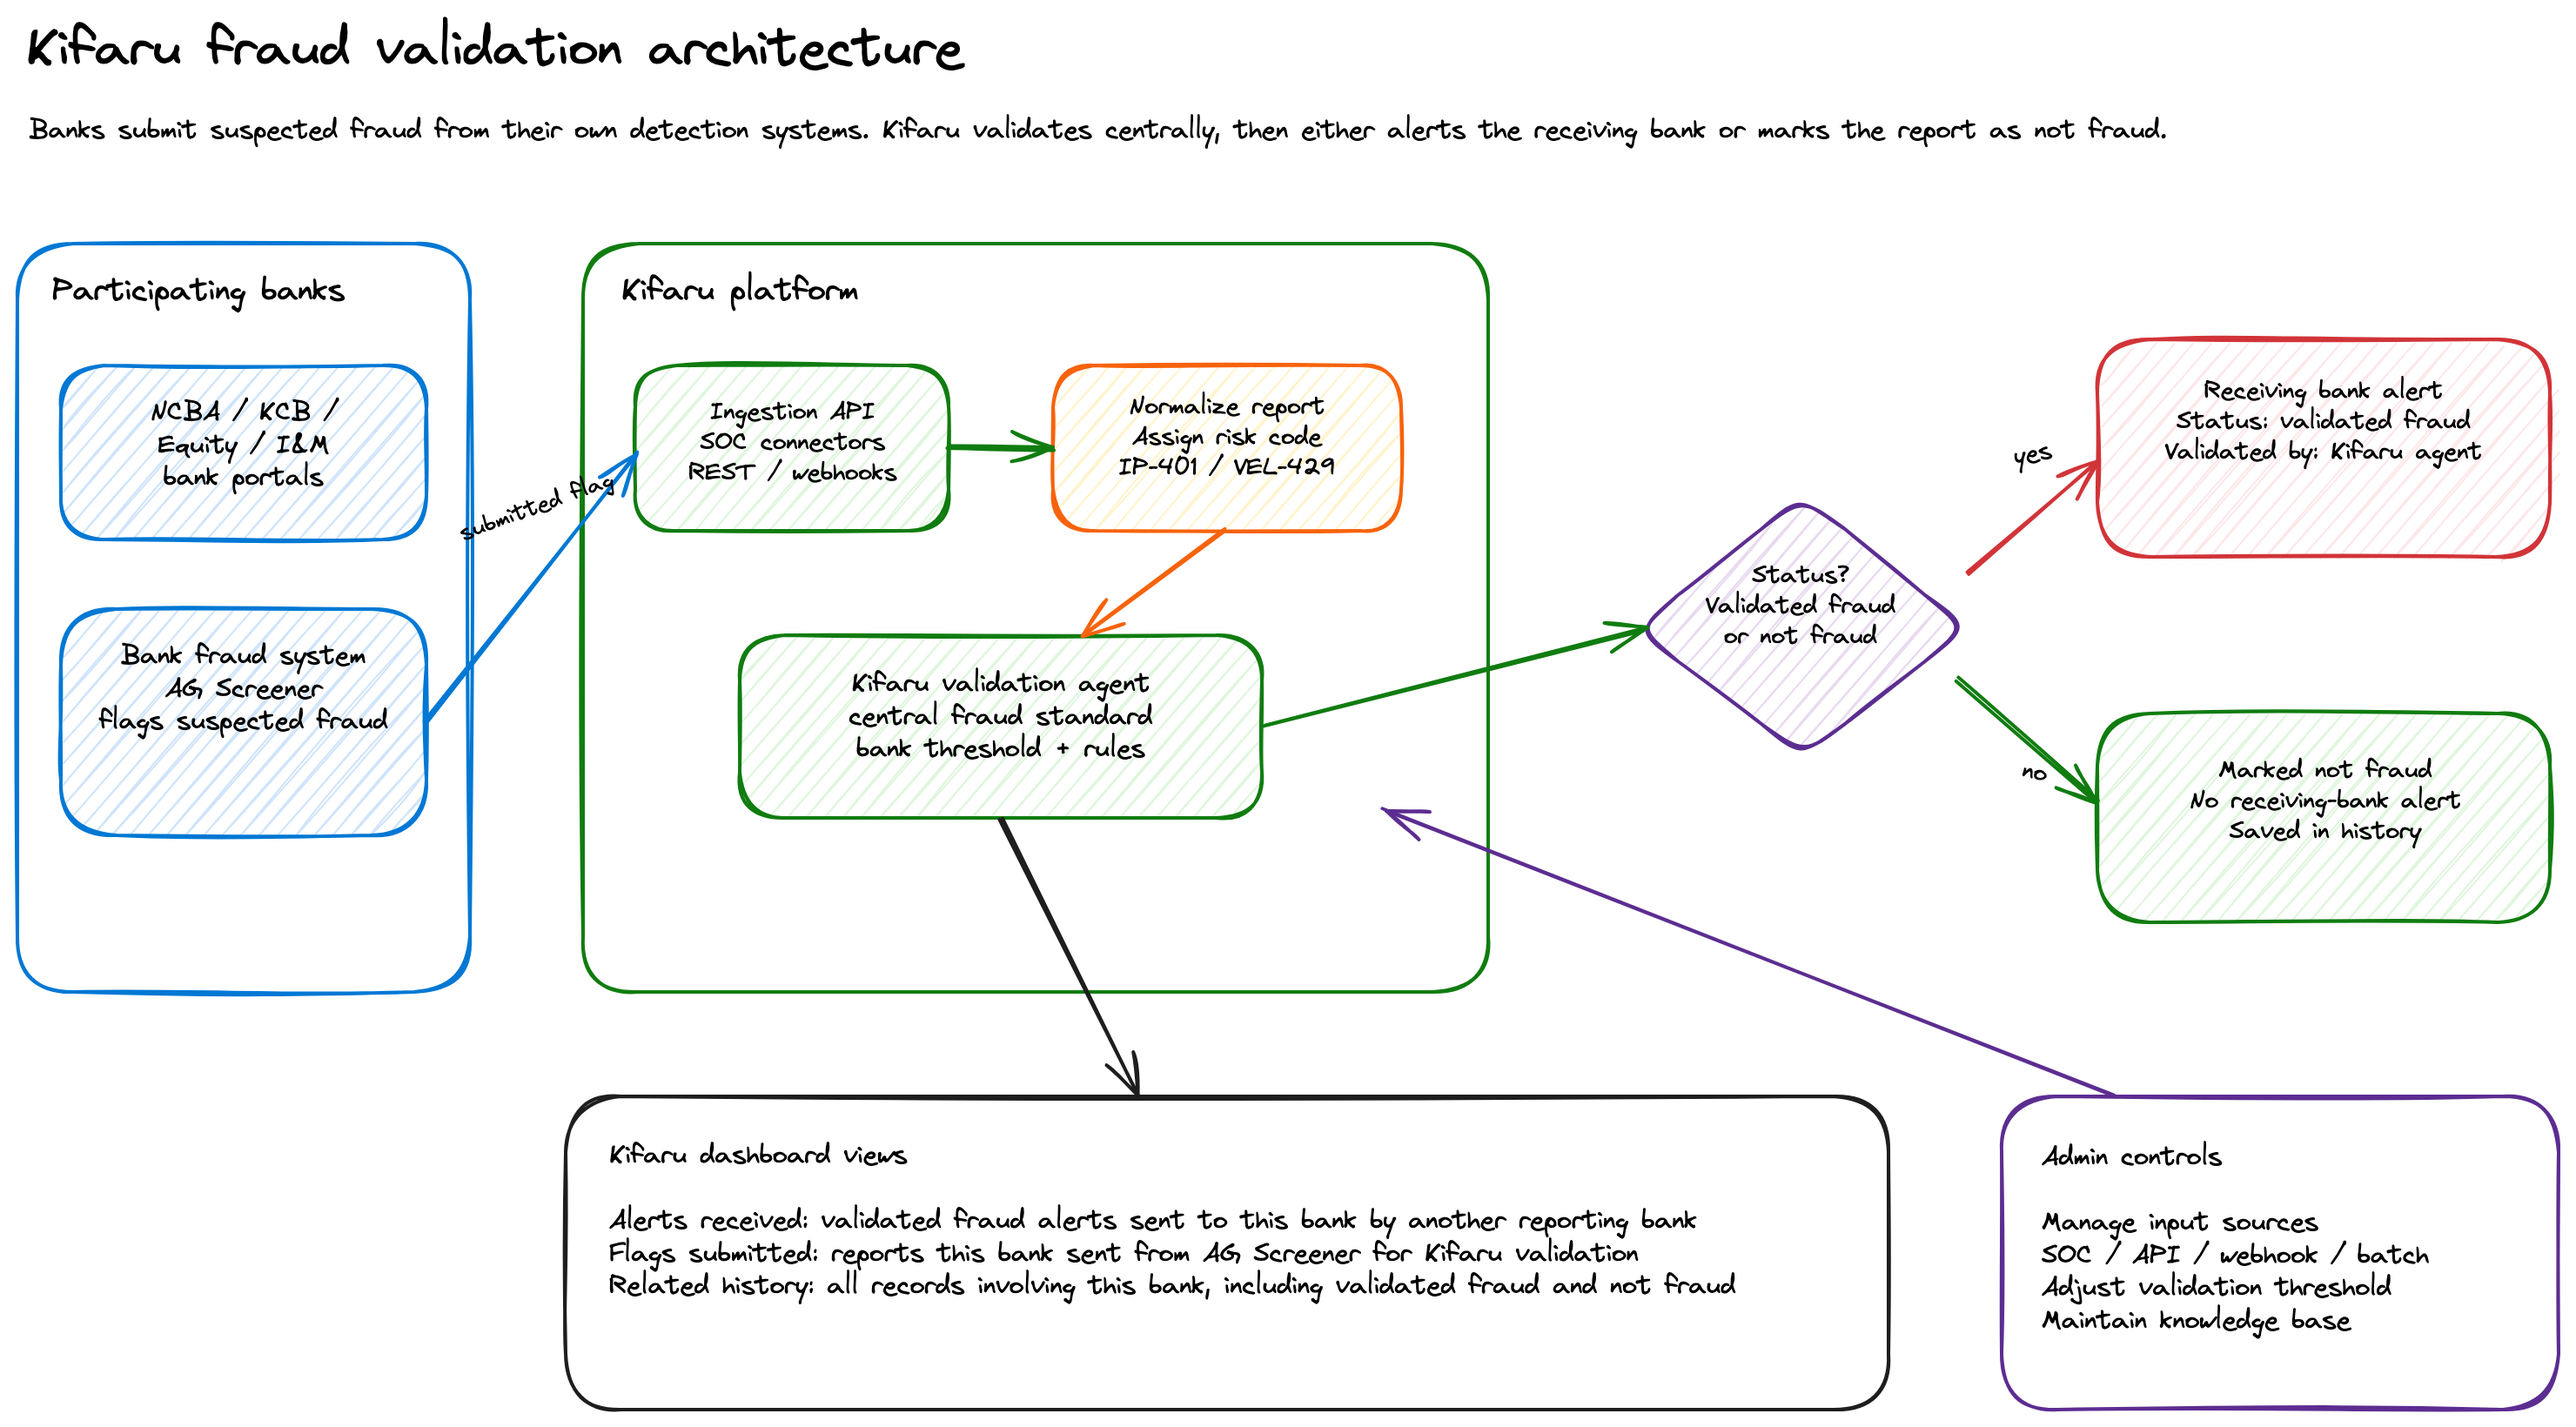
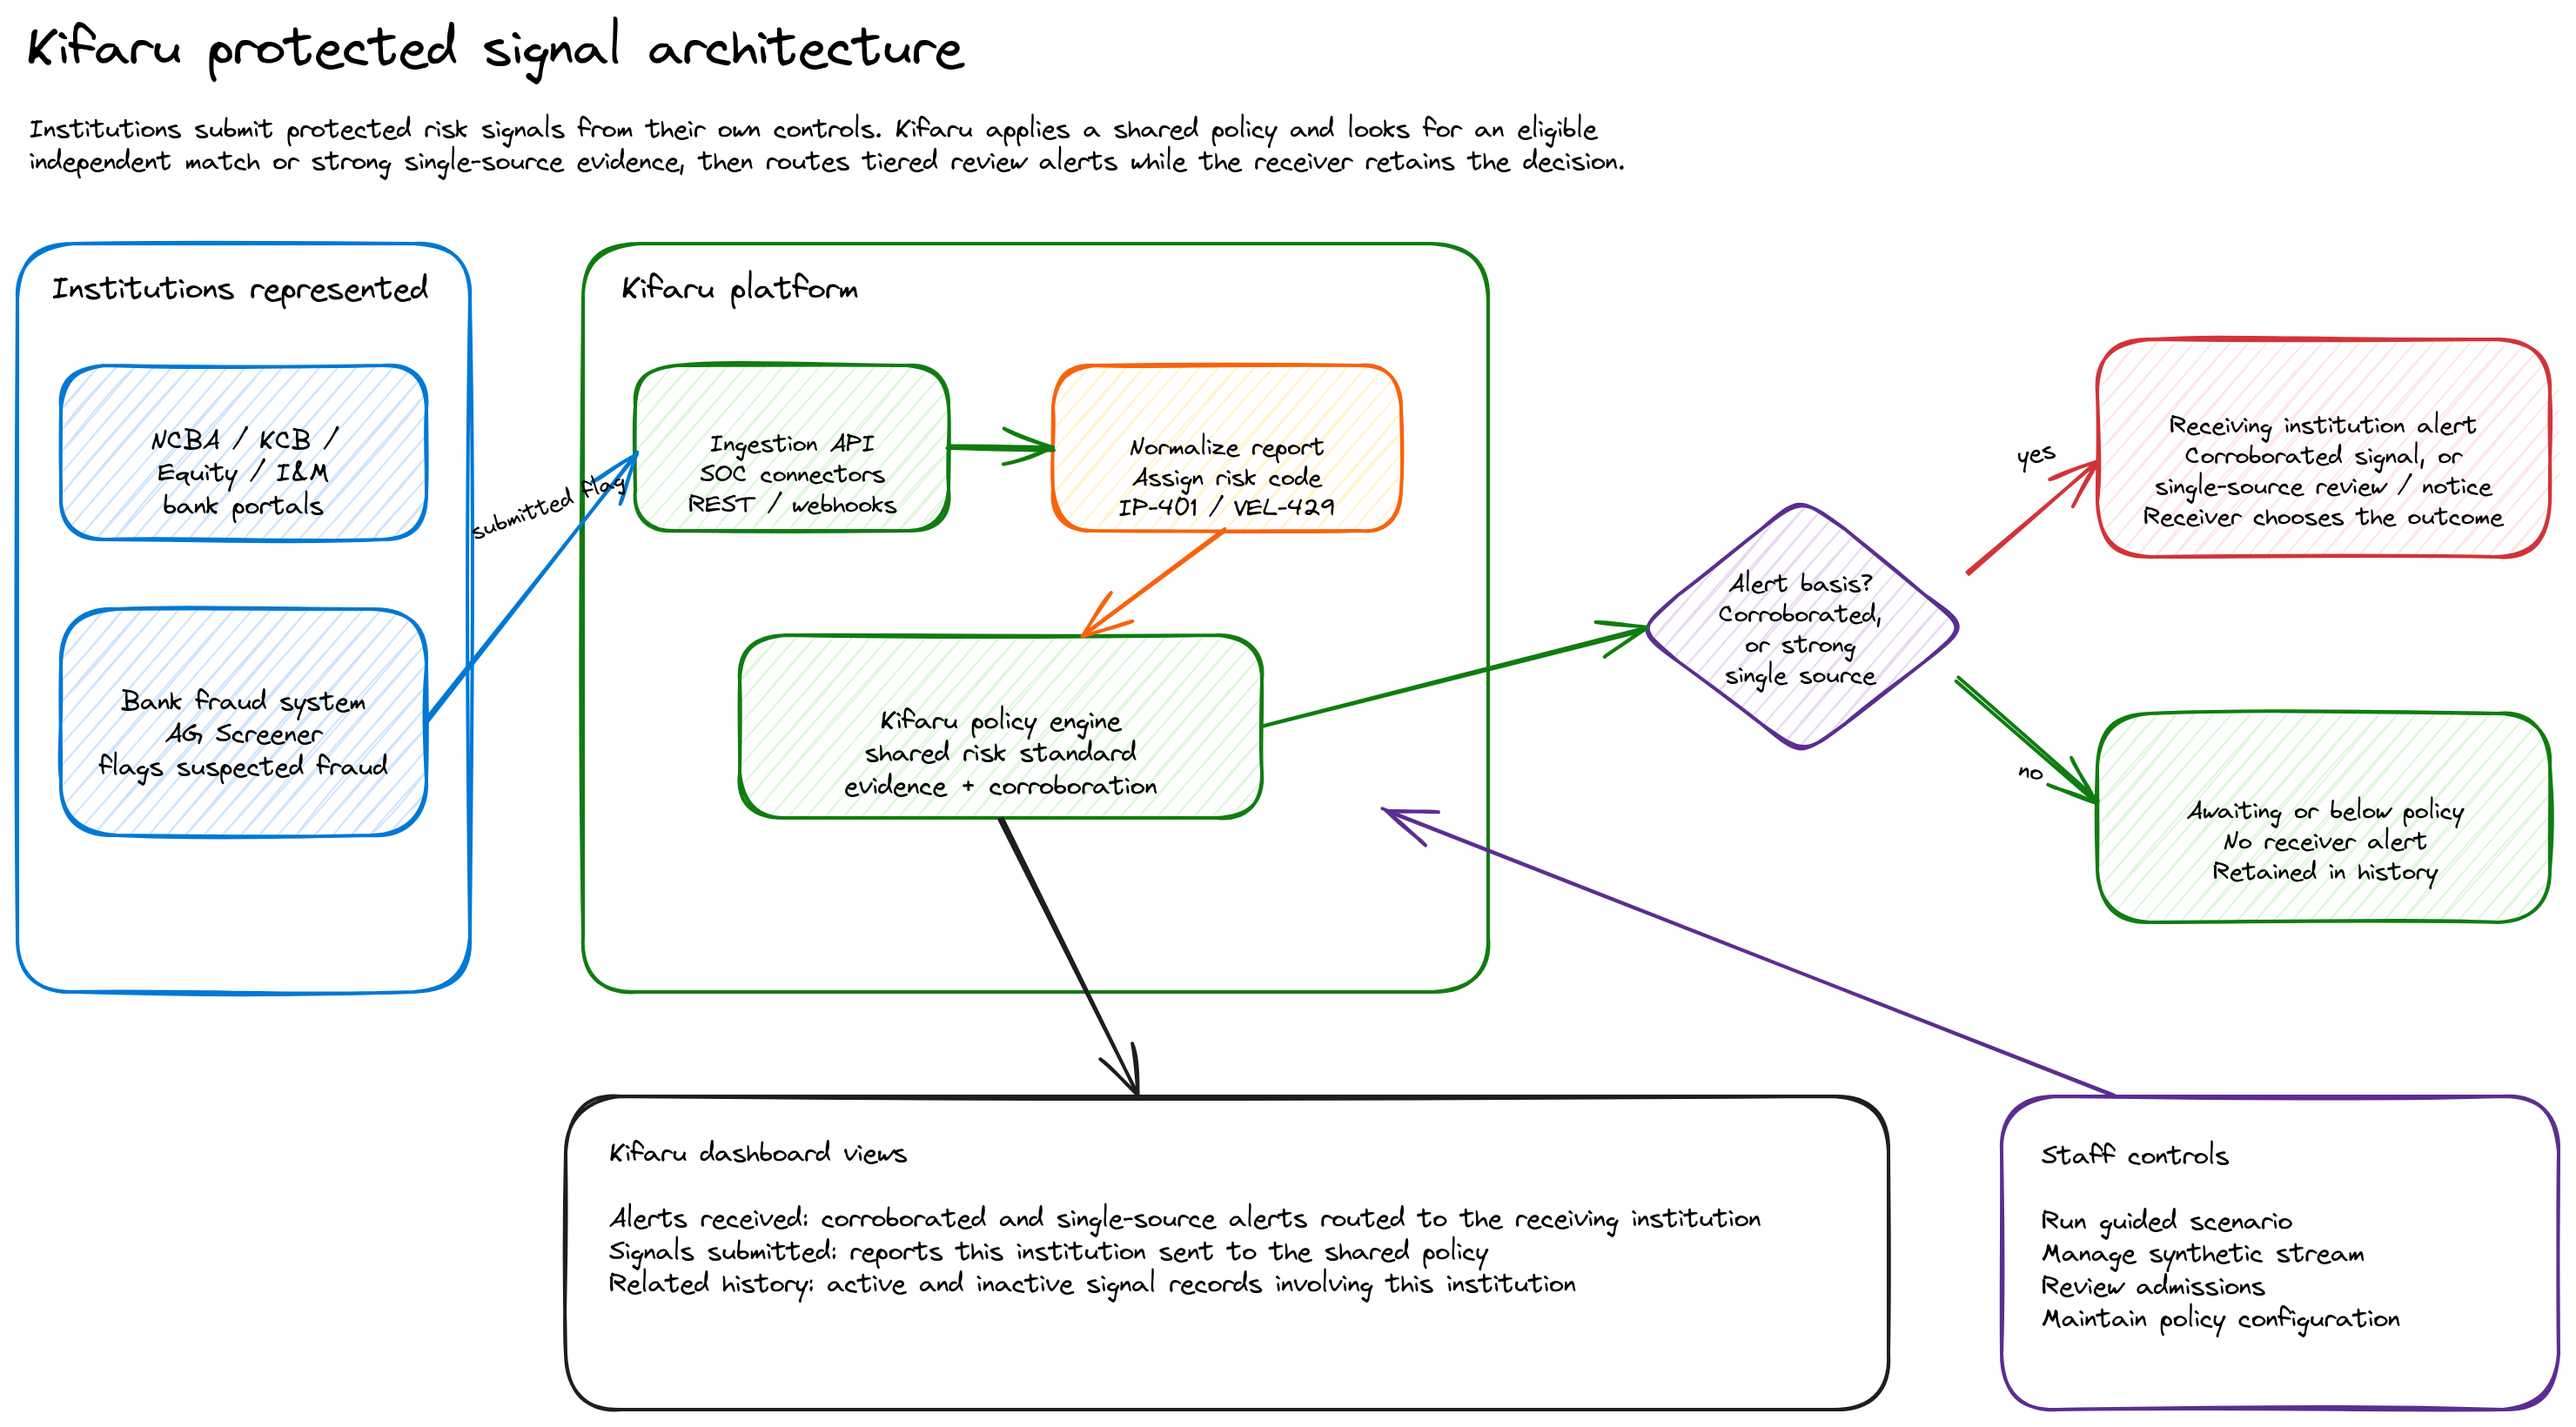
Document single-source alert tiers
Update the README, policy reference, backend migration notes and in-app help
to describe corroborated, single-source review and single-source notice
alerts, the victim_confirmed evidence rule, and how reporter standing is
earned from receiver decisions.

Refresh the architecture diagram for the new alert basis and re-export the
PNG from the Excalidraw source; the committed image still showed the older
validated-fraud wording.

diff --git a/src/components/ReferencePanels.tsx b/src/components/ReferencePanels.tsx
@@ -104,7 +104,7 @@ export function AdminDetails({
       <KnowledgeItems items={[
         { title: "Workspace structure", text: "Every institution can submit risk signals, receive corroborated and single-source alerts, and investigate related history from the same workspace." },
         { title: "Tenant data boundary", text: `${bank.name} views only related records. This client-side filter is not production authorization.` },
-        { title: "Alert routing", text: "Corroborated signals route to the receiving institution. Below-policy reports remain in history without an alert." },
+        { title: "Alert routing", text: "Corroborated signals route to the receiving institution. A victim-confirmed transfer, a known-risk destination, or a reporter with a strong outcome record can send a labelled single-source alert first. Below-policy reports remain in history without an alert." },
       ]} />
     </Card>
   </div>;

diff --git a/src/App.tsx b/src/App.tsx
@@ -538,7 +538,7 @@ export default function App() {
           <p className="sidebar-label">How it works</p>
           <ol className="how-it-works">
             <li>A reporting institution publishes a protected risk indicator</li>
-            <li>Kifaru looks for a qualified independent match</li>
+            <li>Kifaru looks for a qualified independent match, or strong single-source evidence</li>
             <li>The receiving institution reviews and records its own response</li>
           </ol>
         </div>}

diff --git a/README.md b/README.md
@@ -29,10 +29,12 @@ intelligence:
 1. An institution's existing controls detect suspicious activity.
 2. The institution submits structured evidence and protected identifiers.
 3. Kifaru validates the evidence contract and applies a deterministic policy.
-4. A signal remains active but does not alert a receiver until it has a
-   qualified match from another institution.
+4. By default, a signal remains active but does not alert a receiver until it
+   has a qualified match from another institution.
 5. When the policy and corroboration requirements are met, Kifaru routes a
-   review alert to the destination institution.
+   review alert to the destination institution. Strong single-source evidence
+   (a victim-confirmed transfer, a known-risk destination, or a reporter with a
+   strong outcome record) can route a single-source alert sooner.
 6. The receiving institution acknowledges the alert and records `held`,
    `released`, or `recovered` as its own outcome.
 7. Retraction, dispute, release, or expiry removes a signal from active
@@ -62,7 +64,7 @@ institution and limits the workspace to related records.
 The workspace provides:
 
 - Signals submitted by the institution
-- Corroborated alerts received by the institution
+- Corroborated and single-source alerts received by the institution
 - Related signal history
 - Policy score and evidence explanations
 - Receiving-institution outcomes
@@ -154,6 +156,7 @@ The Go API rejects:
 - Protected identifiers that are not `sha256:` plus 64 lowercase hexadecimal
   characters
 - Unknown destination institutions
+- `victim_confirmed` evidence on a report without a positive transfer amount
 - Invalid timestamps, amounts, scores, or thresholds
 - Narratives longer than 500 characters
 - Narratives that appear to contain an email, Kenyan phone number, or long
@@ -312,6 +315,7 @@ Displayed metrics are operational observations from current synthetic records:
 
 - Signals
 - Corroborated
+- Single-source
 - Awaiting
 - Below policy
 - Quarantined
@@ -347,7 +351,7 @@ flowchart LR
     Institution -->|"protected report + structured evidence"| API
     UI -->|"authenticated JSON + SSE"| API
     API -->|"reports, artefacts, validations, alerts, audit"| DB
-    API -->|"corroborated review alert"| Receiver
+    API -->|"corroborated or single-source alert"| Receiver
     Receiver -->|"acknowledge + recorded outcome"| API
 ```
 
@@ -502,6 +506,8 @@ Coverage includes:
 - Protected identifier and narrative validation
 - Required risk-code evidence and unknown-code rejection
 - Destination-scoped corroboration
+- Single-source alert tiers, reporter standing, and in-place alert escalation
+  and downgrade
 - Prevention of automatic known-risk promotion
 - Idempotent and atomic processing
 - Versioned revalidation
@@ -523,6 +529,8 @@ Go integration suite on every push to `main` and every pull request.
 - Kifaru records indicators and institution decisions; it does not move money.
 - Correlation is not human identification.
 - Corroboration is not a legal or factual fraud determination.
+- Reporter standing reflects past receiver decisions, not the accuracy of any
+  single report.
 - A directory entry is not evidence of participation.
 - The public demonstration key is not a production tokenisation architecture.
 - Demo authentication is not bank-managed SSO, MFA, or connector identity.

diff --git a/protected-signal-policy.md b/protected-signal-policy.md
@@ -50,14 +50,18 @@ Given a structured risk report from an institution:
 
 ## Receiver decisions
 
-Kifaru issues a `review` alert. The receiving institution may acknowledge it and
-record one of these outcomes:
+Kifaru issues a corroborated, single-source review, or single-source notice
+alert, and labels each with its basis. On every tier, the receiving
+institution may acknowledge it and record one of these outcomes:
 
 - `held`
 - `released`
 - `recovered`
 
-Kifaru records the response; it does not execute it.
+Kifaru records the response; it does not execute it. These decisions also
+determine the reporting institution's standing for single-source alerts:
+`held` and `recovered` uphold an alert, while `released` and disputes count
+against it.
 
 ## Example response
 

diff --git a/backend/README.md b/backend/README.md
@@ -125,6 +125,9 @@ the Go producer then maintains rolling retention and repairs the same exact
 legacy state if a retiring instance recreates it during a rolling deployment.
 `006_user_access_requests.sql` stores tenant-bound alias requests, their review
 lifecycle, reviewer metadata and the admitted account link.
+`007_signal_lifecycle.sql` adds reversible signal lifecycle states and
+expiry, destination-scoped artefact matching, receiver alert outcomes, the
+current signal status names, and guided-scenario state.
 `008_single_source_alerts.sql` adds each alert's tier (corroborated,
 single-source review or single-source notice), defaulting existing alerts to
 corroborated.
